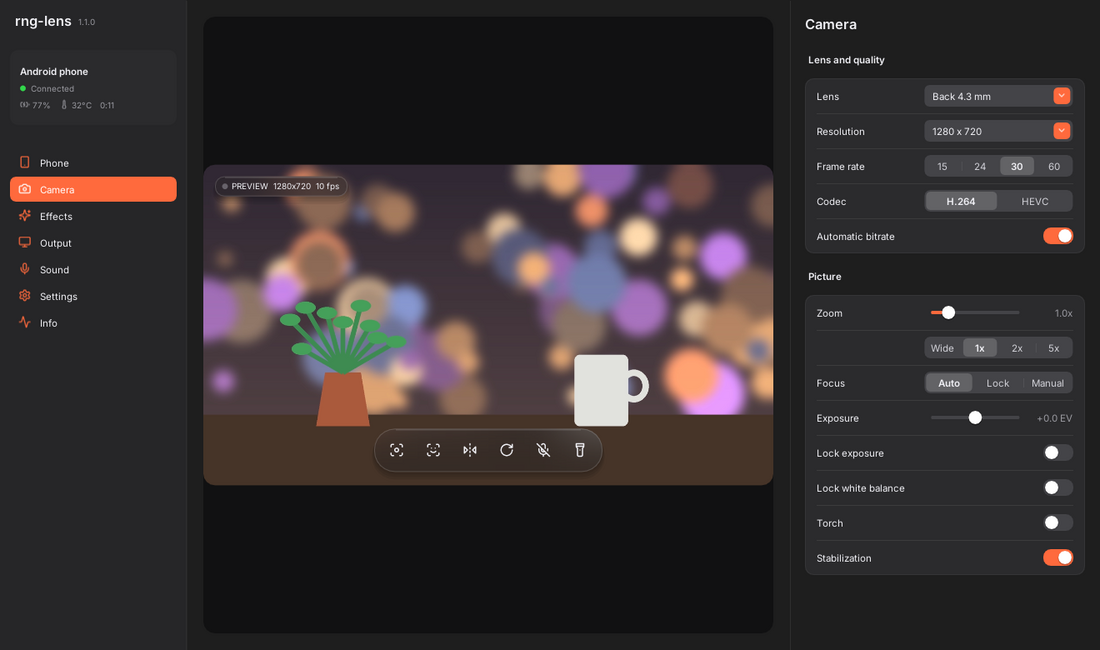
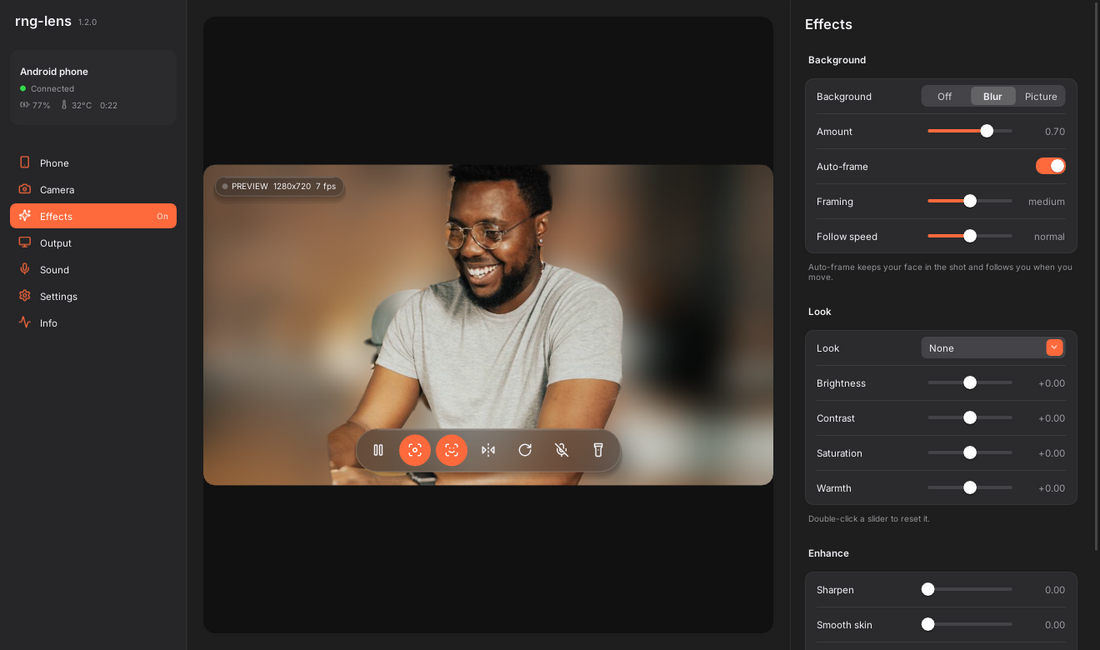
fix: detect and update an outdated phone app, faster auto-frame

diff --git a/desktop/src/app.cpp b/desktop/src/app.cpp
@@ -15,6 +15,8 @@
 #include <deque>
 #include <memory>
 #include <string>
+#include <mutex>
+#include <thread>
 #include <vector>
 
 #include <glad/gl.h>
@@ -471,6 +473,9 @@ struct Session {
 
 class App {
 public:
+    ~App() {
+        if (phoneUpd_.joinable()) phoneUpd_.join();
+    }
     App(Prefs& prefs, const AppOptions& opt) : prefs_(prefs), opt_(opt) {
         sessions_[0] = std::make_unique<Session>(0, prefs);
         sessions_[1] = std::make_unique<Session>(1, prefs);
@@ -699,6 +704,52 @@ private:
         }
     }
 
+    // The phone app is older than this PC app (or too old to say its version): some controls won't work.
+    static bool phoneOutdated(const Session& s) {
+        if (!s.streaming() || s.hello.empty()) return false;
+        std::string v = jv(s.hello, "version", std::string());
+        return v.empty() || Updater::newer(RNGLENS_VERSION, v);
+    }
+
+    void startPhoneUpdate() {
+        if (phoneUpdState_ == 1) return;
+        if (phoneUpd_.joinable()) phoneUpd_.join();
+        phoneUpdState_ = 1;
+        phoneUpd_ = std::thread([this] {
+            auto done = [this](int st, const std::string& m) {
+                {
+                    std::lock_guard<std::mutex> lock(phoneUpdM_);
+                    phoneUpdMsg_ = m;
+                }
+                phoneUpdState_ = st;
+                glfwPostEmptyEvent();
+            };
+#ifdef _WIN32
+            char tmp[MAX_PATH];
+            GetTempPathA(MAX_PATH, tmp);
+            std::string apk = std::string(tmp) + "rng-lens-phone.apk", err;
+            std::string url = std::string("https://github.com/MRRengi/rng-lens/releases/download/v") + RNGLENS_VERSION + "/rng-lens.apk";
+            if (!Updater::fetch(url, apk, err)) return done(3, "Couldn't download the phone app: " + err);
+            std::vector<std::string> adbs = {"\"" + plat::exeDir() + "adb\\adb.exe\"", "adb"};
+            for (const std::string& adb : adbs) {
+                std::string out;
+                int rc = plat::run(adb + " install -r \"" + apk + "\"", out);
+                if (rc < 0) continue; // this adb doesn't exist
+                if (out.find("Success") != std::string::npos) return done(2, "Phone app updated. Open rng-lens on the phone again.");
+                if (out.find("no devices") != std::string::npos)
+                    return done(3, "No phone on USB. Plug it in with USB debugging on, or install rng-lens.apk from the release page on the phone.");
+                if (out.find("unauthorized") != std::string::npos) return done(3, "Tap \"Allow\" on the phone's USB debugging prompt, then try again.");
+                if (out.find("INSTALL_FAILED_UPDATE_INCOMPATIBLE") != std::string::npos)
+                    return done(3, "The phone has a test build signed differently: uninstall rng-lens on the phone, then try again.");
+                return done(3, out.empty() ? std::string("adb install failed") : out);
+            }
+            done(3, "adb not found. Reinstall rng-lens on the PC, or install rng-lens.apk on the phone from the release page.");
+#else
+            done(3, "Install rng-lens.apk from the release page on the phone.");
+#endif
+        });
+    }
+
     bool adbForward(std::string& msg) {
         std::vector<std::string> adbs;
 #ifdef _WIN32
@@ -858,6 +909,10 @@ private:
             ui::text(b, level >= 3 || temp >= 45 ? P.bad : level >= 1 || temp >= 40 ? P.warn : P.secondary);
             ImGui::SameLine(0, 10 * S);
             ui::textSecondary(clock(nowMs() - s.streamStart).c_str());
+            if (phoneOutdated(s)) {
+                std::string m = std::string(ui::icon::alert) + " Phone app needs an update";
+                ui::text(m.c_str(), P.warn);
+            }
         }
         ImGui::PopFont();
         ImGui::EndGroup();
@@ -1069,9 +1124,34 @@ private:
         }
     }
 
+    void drawPhoneUpdateGroup(Session& s) {
+        int st = phoneUpdState_.load();
+        if (!phoneOutdated(s) && st != 2) return;
+        std::string v = jv(s.hello, "version", std::string());
+        ui::beginGroup("Phone app");
+        ui::rowBlock();
+        std::string msg = st == 2 ? std::string("Updated.")
+                                  : "The phone runs " + (v.empty() ? std::string("an old version") : "version " + v) +
+                                        " and this PC app is " RNGLENS_VERSION ". Zoom, focus, torch and other camera controls need both up to date.";
+        ui::caption(msg.c_str(), st == 2 ? ui::P().good : ui::P().warn);
+        if (st != 2) {
+            float w = ImGui::CalcItemWidth();
+            if (ui::button(st == 1 ? "Updating the phone..." : "Update the phone over USB", true, w) && st != 1) startPhoneUpdate();
+        }
+        ui::rowEnd();
+        std::string foot;
+        {
+            std::lock_guard<std::mutex> lock(phoneUpdM_);
+            foot = phoneUpdMsg_;
+        }
+        if (foot.empty() && st == 0) foot = "Or download rng-lens.apk on the phone from the release page and install it.";
+        ui::endGroup(foot.c_str());
+    }
+
     void drawPhone(Session& s) {
         const ui::Palette& P = ui::P();
         Connection::State st = s.conn.state();
+        drawPhoneUpdateGroup(s);
         if (st == Connection::State::Streaming || st == Connection::State::Connecting) {
             bool live = st == Connection::State::Streaming;
             std::string dev = s.device();
@@ -1772,6 +1852,11 @@ private:
     bool autostart_ = false, quit_ = false;
     int64_t lastTrayAt_ = 0, lastThemeAt_ = 0, lastUpdateCheck_ = 0;
     Updater updater_;
+    // Updating the phone app over USB (adb install of the APK from the matching release)
+    std::thread phoneUpd_;
+    std::atomic<int> phoneUpdState_{0}; // 0 idle, 1 working, 2 done, 3 failed
+    std::mutex phoneUpdM_;
+    std::string phoneUpdMsg_;
     int section_ = 0;
     float scale_ = 1.f;
     bool dark_ = true;

diff --git a/desktop/src/autoframe.h b/desktop/src/autoframe.h
@@ -32,9 +32,9 @@ public:
                 fx_ = fx, fy_ = fy, fh_ = fb.h;
                 haveFace_ = true;
             } else {
-                fx_ += (fx - fx_) * 0.45f;
-                fy_ += (fy - fy_) * 0.45f;
-                fh_ += (fb.h - fh_) * 0.2f;
+                fx_ += (fx - fx_) * 0.6f;
+                fy_ += (fy - fy_) * 0.6f;
+                fh_ += (fb.h - fh_) * 0.3f;
             }
             lastDetMs_ = fb.atMs;
         }
@@ -44,7 +44,7 @@ public:
         float tx = 0.5f, ty = 0.5f, th = 1.f;
         float maxH = fitHeight(1.f, ww, wh, aspect);
         if (haveFace_) {
-            float k = 4.6f - 2.4f * tightness; // crop height in face heights
+            float k = 4.2f - 2.6f * tightness; // crop height in face heights
             th = std::fmin(maxH, std::fmax(0.35f, fh_ * k));
             tx = fx_;
             ty = fy_ + th * 0.12f; // eyes in the upper third
@@ -59,7 +59,7 @@ public:
             goalInit_ = true;
             dx = tx - gx_, dy = ty - gy_, dh = th - gh_;
         }
-        float startMove = ch_ * 0.07f, startZoom = ch_ * 0.12f;
+        float startMove = ch_ * 0.065f, startZoom = ch_ * 0.10f;
         if (!tracking_ && (std::fabs(dx) > startMove || std::fabs(dy) > startMove || std::fabs(dh) > startZoom))
             tracking_ = true;
         if (tracking_) {
@@ -70,12 +70,12 @@ public:
             if (settled) tracking_ = false;
         }
 
-        // 3. Spring towards the goal. Speed slider: 1.4 s (slow) .. 0.35 s (fast) to settle.
-        float smooth = 0.7f - 0.52f * speed;
+        // 3. Spring towards the goal. Speed slider: ~1 s (slow) .. ~0.25 s (fast) to settle.
+        float smooth = 0.45f - 0.34f * speed;
         float ox = cx_, oy = cy_, oh = ch_;
         cx_ = smoothDamp(cx_, gx_, vx_, smooth, dt);
         cy_ = smoothDamp(cy_, gy_, vy_, smooth, dt);
-        ch_ = smoothDamp(ch_, gh_, vh_, smooth * 1.3f, dt); // zoom a bit lazier than pan
+        ch_ = smoothDamp(ch_, gh_, vh_, smooth * 1.15f, dt); // zoom a bit lazier than pan
 
         // Crop rectangle, kept inside the picture (clamped here, not in the spring, so edges don't fight it).
         float h = std::fmin(ch_, maxH);

diff --git a/tools/autoframe-test/test.cpp b/tools/autoframe-test/test.cpp
@@ -38,7 +38,7 @@ void run(const char* name, F step) {
     CropRect crop;
     FaceBox fb;
     double stillPath = 0, maxJump = 0, pvx = 0, pvy = 0;
-    float px = 0.5f, py = 0.5f, endErr = 0;
+    float px = 0.5f, py = 0.5f, endErr = 0, reachT = -1, firstZoomT = -1;
     for (int i = 0; i < 60 * 30; i++) {
         float t = i * dt;
         // true head: x 0.45 with a tiny sway, moves to 0.65 between t=12 and 13
@@ -57,9 +57,11 @@ void run(const char* name, F step) {
         if (t > 5) maxJump = std::fmax(maxJump, std::hypot(vx - pvx, vy - pvy));
         pvx = vx, pvy = vy, px = cx, py = cy;
         if (t > 17.9f && t < 18) endErr = std::fabs(cx - 0.65f);
+        if (t > 12 && reachT < 0 && std::fabs(cx - 0.65f) < 0.02f) reachT = t - 12;
+        if (firstZoomT < 0 && (crop.y1 - crop.y0) < 0.75f) firstZoomT = t;
     }
-    printf("%-10s wander while still: %.4f   biggest twitch: %.3f   off target after move: %.3f\n", name, stillPath,
-           maxJump, endErr);
+    printf("%-10s wander while still: %.4f   biggest twitch: %.3f   off target after move: %.3f   caught up %.2fs after the move started   zoomed in at %.2fs\n",
+           name, stillPath, maxJump, endErr, reachT, firstZoomT);
 }
 
 int main() {

diff --git a/tools/fakephone/FakePhone.java b/tools/fakephone/FakePhone.java
@@ -94,7 +94,7 @@ public final class FakePhone implements Link.Listener {
     }
 
     private String hello() {
-        return "{\"proto\":1,\"device\":\"" + System.getenv().getOrDefault("FAKE_DEVICE", "rng-lens FakePhone") + "\",\"hevc\":true,\"encoder\":\"ffmpeg\",\"cameras\":["
+        return "{\"proto\":1,\"version\":\"" + System.getenv().getOrDefault("FAKE_VERSION", "9.9.9") + "\",\"device\":\"" + System.getenv().getOrDefault("FAKE_DEVICE", "rng-lens FakePhone") + "\",\"hevc\":true,\"encoder\":\"ffmpeg\",\"cameras\":["
                 + "{\"id\":\"0\",\"facing\":\"back\",\"sensorOrientation\":90,\"focal\":4.3,"
                 + "\"sizes\":[[1920,1080,60],[1280,720,60],[640,480,30]],\"fps\":[[15,30],[30,30],[60,60]],"
                 + "\"zoom\":[0.6,8.0],\"flash\":true,\"aeRegions\":true,\"afManual\":true,\"ev\":[-12,12,0.1667],\"stab\":true},"

diff --git a/android/src/dev/rengi/lens/Engine.java b/android/src/dev/rengi/lens/Engine.java
@@ -238,6 +238,10 @@ final class Engine implements Link.Listener, Pipeline.Sink, AudioPipeline.Sink {
             JSONObject hello = catalog.toJson();
             hello.put("proto", Protocol.VERSION);
             hello.put("device", Build.MANUFACTURER + " " + Build.MODEL);
+            try {
+                hello.put("version", context.getPackageManager().getPackageInfo(context.getPackageName(), 0).versionName);
+            } catch (Exception ignored) {
+            }
             hello.put("state", stateJson());
             hello.put("mic", micAllowed());
             l.send(Protocol.json(Protocol.HELLO, hello.toString()));

diff --git a/desktop/src/updater.cpp b/desktop/src/updater.cpp
@@ -214,6 +214,25 @@ void Updater::download() {
 #endif
 }
 
+bool Updater::fetch(const std::string& url, const std::string& path, std::string& err) {
+#ifdef _WIN32
+    FILE* f = fopen(path.c_str(), "wb");
+    if (!f) {
+        err = "could not save the file";
+        return false;
+    }
+    bool ok = httpGet(url, nullptr, f, err, [](uint64_t, uint64_t) {});
+    fclose(f);
+    if (!ok) DeleteFileA(path.c_str());
+    return ok;
+#else
+    (void)url;
+    (void)path;
+    err = "Windows only";
+    return false;
+#endif
+}
+
 bool Updater::launchInstaller() {
 #ifdef _WIN32
     std::string f;

diff --git a/desktop/src/updater.h b/desktop/src/updater.h
@@ -24,6 +24,8 @@ public:
     float progress() const { return progress_.load(); } // 0..1 while downloading
 
     static bool newer(const std::string& a, const std::string& b); // a > b, "1.10.0" > "1.9.3"
+    // Blocking download of `url` into `path` (Windows only). For the phone APK.
+    static bool fetch(const std::string& url, const std::string& path, std::string& err);
 
 private:
     void join();

diff --git a/docs/STATUS.md b/docs/STATUS.md
@@ -32,6 +32,10 @@ DONE
   one click downloads and starts the installer); exposure on the face (phone meters AE on the face the PC
   finds). Checked: several apps reading the camera at once already works (Wine, 2 readers)
 
+- v1.2.1: found on Maks's Poco over adb: the phone still ran 1.0.0 (camera controls bug fixed in 1.0.1).
+  The PC app now detects an old phone app and updates it over USB in one click; the phone reports its
+  version. Auto-frame retuned (catches up faster than 1.0, still steady); webcam stock photo in README/site
+
 *WE ARE HERE*
 - Maks: install 1.2.0: pause, pull Wi-Fi mid-call, face exposure against a window, the phone screen design;
   tell what exactly Teams showed (which camera picked, which other apps were open)

diff --git a/README.md b/README.md
@@ -117,4 +117,4 @@ or push a tag `vX.Y.Z` - CI builds, benches and publishes the Release with the t
 ## License
 
 MIT. Softcam is MIT (see its LICENSE), Inter is OFL-1.1, Lucide icons are ISC, miniaudio is public domain / MIT-0, ONNX Runtime is MIT,
-PP-HumanSeg is Apache-2.0, YuNet is MIT. FFmpeg is LGPL and linked dynamically.
+PP-HumanSeg is Apache-2.0, YuNet is MIT. The photo in the screenshot is from Pexels (free to use). FFmpeg is LGPL and linked dynamically.
